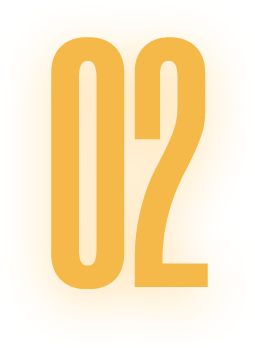
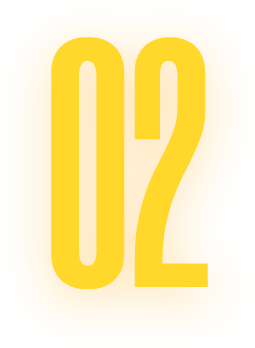
uiux

Changed region(s): [[0.1922, 0.0862, 0.4941, 0.8333], [0.5216, 0.0862, 0.8235, 0.8333]]

diff --git a/assets/css/services.css b/assets/css/services.css
@@ -1848,7 +1848,7 @@ h1 span{
   position: relative;
   margin-bottom: 11vw;
   background: #7b74ff;
-  width: 79vw;
+  width: 81vw;
   height: 56.3680vw;
   /* margin-left: 6.5vw; */
   margin-left: 11vw;
@@ -1866,11 +1866,12 @@ h1 span{
   /* left: 26vw; */
   left: 5.5vw;
   position: absolute;
-  top: 1vw;
+  top: 0vw;
 }
 
 .purpleDivImgThree{
   width: 59.612vw;
+  top: -4.5vw;
 }
 
 .purpleDivImgFour{
@@ -1885,39 +1886,45 @@ h1 span{
   width: 12.348vw;
   position: absolute;
   top: -3.8vw;
-  right: -1vw;
+  right: -2vw;
 }
 
 .rightnumFour{
   top: -3vw;
   width: 8.08716vw;
-  right: 0vw;
+  right: 0.5vw;
 }
 
 .purpleDivRight{
   /* margin-left: 16.5vw; */
   margin-left: 10.5vw;
-  background: #feeb5a;
+  background: #ebb035;
   padding: 0.1px;
 }
 .purpleDivImgRight{
   transition: 1s ease;
-  width: 53.26vw;
+  width: 48.26vw;
   /* left: -14vw; */
   left: 5vw;
   position: absolute;
   top: 5vw;
 }
+.purpleDivImgRightTwo{
+  width: 54vw;
+  top: 3vw;
+}
 
 .orangeDiv{
   background: #f48069;
   margin-top: 20vw;
+  width: 93vw;
 }
 .greenDiv{
   background: #7cefc8;
   margin-top: 28vw;
   margin-bottom: 16vw;
   background: linear-gradient(135deg, rgba(124,239,200,1) 0%, rgba(52,220,208,1) 100%);
+  width: 83vw;
 }
 
 .leftPurpInsideTextContainer{
@@ -1927,7 +1934,7 @@ h1 span{
   /* left: 3vw; */
   left: 29vw;
   top: 12vw;
-  width: 33vw;
+  width: 32vw;
 }
 
 .leftPurpInsideTextContainer h3{
@@ -1938,10 +1945,11 @@ h1 span{
   margin: 0;
   margin-top: 2vw;
   font-weight: 100;
-  margin-bottom: 1vw;
+  /* margin-bottom: 1vw; */
   display: flex;
   align-items: center;
   white-space: pre;
+  height: 2vw;
 }
 
 .leftPurpInsideTextContainer h3 span{
@@ -1965,19 +1973,48 @@ h1 span{
   transition: 0.5s ease;
   position: absolute;
   /* border: 1px solid red; */
-  height: 7.6513vw;
-  width: 7.6513vw;
+  height: 9.13vw;
+  width: 9.13vw;
   border-radius: 50%;
   background: #bc98d6;
+  top: -1.5vw;
   box-shadow: 0px 0px 65px 29px rgba(228,182,244,0.5);
+  left: -1vw;
 }
-.researchContainer:hover .researchCircle{
-  box-shadow: 0px 0px 65px 29px rgba(228,182,244,1);
-}
+
 
 .researchCircleTwo{
   background: #fbdf6f;
   box-shadow: 0px 0px 65px 29px rgba(255,255,255,0.5);
+}
+
+.twoAnimPic{
+  width: 41.5vw;
+  position: absolute;
+  left: 17vw;
+  top: 7vw;
+}
+
+.threeAnimPic{
+  width: 37.723vw;
+  position: absolute;
+  left: 10vw;
+  top: 7vw;
+  transform-origin: center center;
+  /* transform: rotate(485deg); */
+  animation-name: threeAnimPic;
+  animation-duration: 12s;
+  animation-iteration-count: infinite;
+  animation-timing-function: linear;
+}
+
+@keyframes threeAnimPic {
+  0%{
+    transform: rotate(0deg);
+  }
+  100%{
+    transform: rotate(360deg);
+  }
 }
 
 .leftPurpInsideTextContainer h2{
@@ -1987,7 +2024,7 @@ h1 span{
   font-family: 'Roboto-Bold';
   margin: 0;
   font-family: 'Morganite-Bold';
-  transform: rotate(-26deg);
+  transform: rotate(-20deg);
   transform-origin: center left;
   left: 3vw;
 }
@@ -2007,12 +2044,13 @@ h1 span{
   height: 6.9273vw;
   margin-top: 5vw;
   position: absolute;
-  padding-top: 3vw;
-  box-shadow: 0px 0px 61px -26px rgba(255,255,255,1);
+  padding-top: 2vw;
+  padding-bottom: 0.51vw;
+  box-shadow: 0px 0px 6vw 1vw rgba(255,255,255,0.5);
   text-align: center;
   cursor: pointer;
   bottom: 1.5vw;
-  left: 5.4vw;
+  left: 5vw;
 }
 
 .anyQuestionsContainerRight{
@@ -2028,7 +2066,7 @@ h1 span{
   font-size: 1.4527vw;
   font-family: 'Poppins-Regular';
   margin: 0;
-  line-height: 1;
+  line-height: 1.2;
   text-align: center;
 }
 

diff --git a/services.html b/services.html
@@ -192,6 +192,7 @@
           </div>
 
           <div class="purpleDiv purpleDivRight">
+            <img class="twoAnimPic" src="assets/images/desktop/UIUX/twoAnimPic.png" alt="">
             <img class="rightnum" src="assets/images/desktop/UIUX/02.png" alt="">
             <div class="leftPurpInsideTextContainer rightPurpInsideTextContainer">
               <div class="researchContainer">
@@ -202,16 +203,17 @@
               <p style="color:#000;">We develop and establish an early high-level KPI, which is based on primary business goals and long term objectives. Through prototyping and repeated testing, we set the foundation for creating a user-friendly interface, effective strategy, content and information architecture that would help our KPI become a reality.</p>
             </div>
             <div class="anyQuestionsContainer anyQuestionsContainerRight">
-              <p style="color:#f5b94a;">Any Questions? <br>
+              <p style="color:#ffd82b;">Any Questions? <br>
               <span>Get in Touch Now</span> </p>
-              <p style="color:#f5b94a;" class="weAreReady">We Are ready to answer your questions at all times</p>
+              <p style="color:#ffd82b;" class="weAreReady">We Are ready to answer your questions at all times</p>
             </div>
-            <div class="purpleDivImgRight">
+            <div class="purpleDivImgRight purpleDivImgRightTwo">
               <img class="imgRig" src="assets/images/desktop/UIUX/1.png" alt="">
             </div>
           </div>
 
           <div class="purpleDiv orangeDiv">
+            <img class="threeAnimPic" src="assets/images/desktop/UIUX/threeAnimPic.png" alt="">
             <img class="leftnum" src="assets/images/desktop/UIUX/03.png" alt="">
             <div class="leftPurpInsideTextContainer">
               <div class="researchContainer">
@@ -232,6 +234,7 @@
           </div>
 
           <div class="purpleDiv purpleDivRight greenDiv">
+            <img class="threeAnimPic fourAnimPic" src="assets/images/desktop/UIUX/fourAnimPic.png" alt="">
             <img class="rightnum rightnumFour" src="assets/images/desktop/UIUX/04.png" alt="">
             <div class="leftPurpInsideTextContainer rightPurpInsideTextContainer">
               <div class="researchContainer">

diff --git a/assets/js/services.js b/assets/js/services.js
@@ -236,7 +236,7 @@ function purpDivAnimOne() {
     if (purpleDiv[0].getClientRects()[0].top < 200) {
       purpleDiv[0].style.marginLeft = '6.5vw';
       purpleDivImg[0].style.left = '37.5vw';
-      leftPurpInsideTextContainer[0].style.left = '5.4vw';
+      leftPurpInsideTextContainer[0].style.left = '5vw';
     }
   }
 }
@@ -245,8 +245,8 @@ function purpDivAnimTwo() {
   if (typeof purpleDiv[1].getClientRects()[0] != 'undefined') {
     if (purpleDiv[1].getClientRects()[0].top < 200) {
       purpleDivRight[0].style.marginLeft = '16.5vw';
-      purpleDivImgRight[0].style.left = '-18vw';
-      rightPurpInsideTextContainer[0].style.right = '5.4vw';
+      purpleDivImgRight[0].style.left = '-17vw';
+      rightPurpInsideTextContainer[0].style.right = '9vw';
     }
   }
 }
@@ -256,7 +256,7 @@ function purpDivAnimThree() {
     if (purpleDiv[2].getClientRects()[0].top < 200) {
       purpleDiv[2].style.marginLeft = '6.5vw';
       purpleDivImg[1].style.left = '33vw';
-      leftPurpInsideTextContainer[2].style.left = '5.4vw';
+      leftPurpInsideTextContainer[2].style.left = '5vw';
     }
   }
 }
@@ -264,9 +264,9 @@ function purpDivAnimThree() {
 function purpDivAnimFour() {
   if (typeof purpleDiv[3].getClientRects()[0] != 'undefined') {
     if (purpleDiv[3].getClientRects()[0].top < 200) {
-      purpleDivRight[1].style.marginLeft = '16.5vw';
-      purpleDivImgRight[1].style.left = '-17vw';
-      rightPurpInsideTextContainer[1].style.right = '5.4vw';
+      purpleDivRight[1].style.marginLeft = '11.5vw';
+      purpleDivImgRight[1].style.left = '-12vw';
+      rightPurpInsideTextContainer[1].style.right = '7vw';
     }
   }
 }
